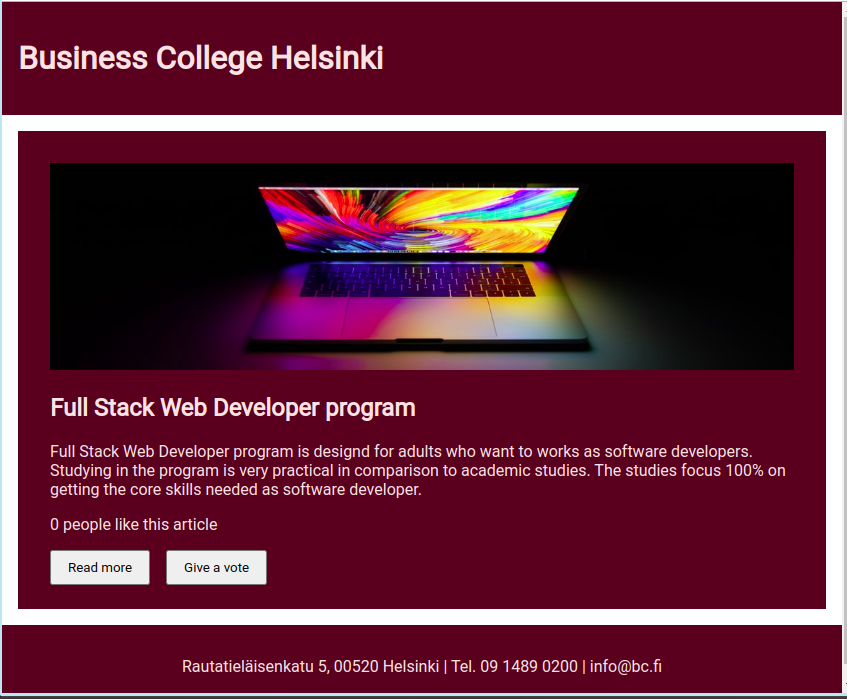
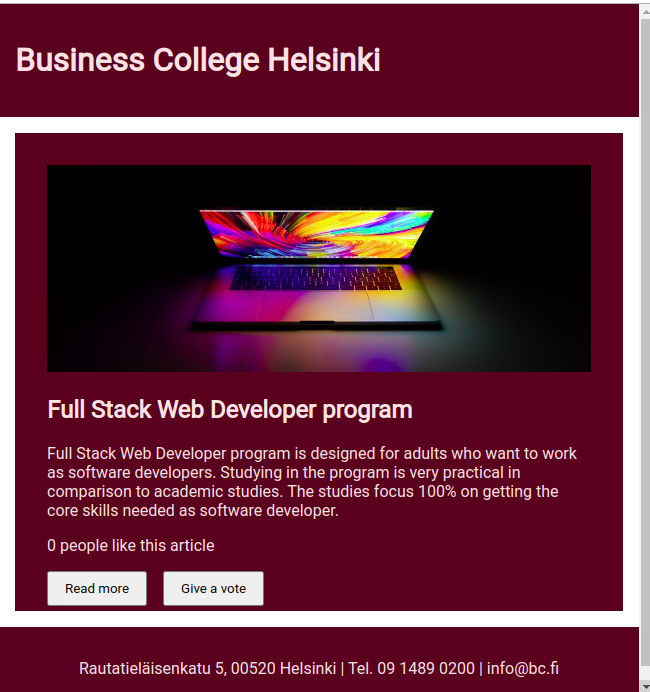
ReadMe pic changed, typos corrected in Article.js

Changed region(s): [[0.0, 0.0, 1.0, 1.0], [0.0, 0.0607, 0.5846, 0.1214]]

diff --git a/04_task/src/Components/Article.js b/04_task/src/Components/Article.js
@@ -15,8 +15,8 @@ class Article extends Component {
         />
         <h2>Full Stack Web Developer program</h2>
         <p>
-          Full Stack Web Developer program is designd for adults who want to
-          works as software developers. Studying in the program is very
+          Full Stack Web Developer program is designed for adults who want to
+          work as software developers. Studying in the program is very
           practical in comparison to academic studies. The studies focus 100% on
           getting the core skills needed as software developer.
         </p>
